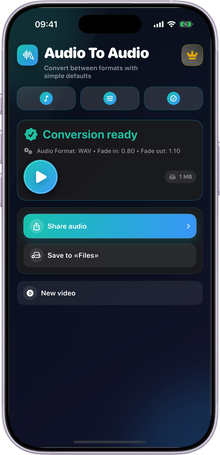
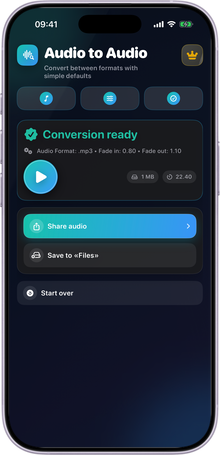
Fix done screen duration and refresh done showcase shots

diff --git a/AudioToAudio/App/AudioToAudioViewModel.swift b/AudioToAudio/App/AudioToAudioViewModel.swift
@@ -96,6 +96,7 @@ final class AudioToAudioViewModel: ObservableObject {
     @Published private(set) var suggestedBoundaries: SmartTrimSuggestion?
     @Published private(set) var trimmedAudioURL: URL?
     @Published private(set) var trimmedFileSizeBytes: Int64?
+    @Published private(set) var trimmedDurationSeconds: Double?
 
     @Published private(set) var statusMessage: String = L10n.tr("status.pick_source")
     @Published private(set) var errorMessage: String?
@@ -174,6 +175,11 @@ final class AudioToAudioViewModel: ObservableObject {
     var outputSizeText: String? {
         guard let trimmedFileSizeBytes else { return nil }
         return humanReadableSize(trimmedFileSizeBytes)
+    }
+
+    var outputDurationText: String? {
+        guard let trimmedDurationSeconds else { return nil }
+        return formatSeconds(trimmedDurationSeconds)
     }
 
     var clipDurationRange: ClosedRange<Double> {
@@ -464,6 +470,7 @@ final class AudioToAudioViewModel: ObservableObject {
         removeManagedFileIfNeeded(trimmedAudioURL)
         trimmedAudioURL = nil
         trimmedFileSizeBytes = nil
+        trimmedDurationSeconds = nil
         errorMessage = nil
         statusMessage = L10n.tr("status.trimming")
 
@@ -485,6 +492,8 @@ final class AudioToAudioViewModel: ObservableObject {
             applyWorkflowState()
             trimmedAudioURL = outputURL
             trimmedFileSizeBytes = size
+            let outputDurationSeconds = (try? await AVURLAsset(url: outputURL).load(.duration).seconds) ?? plan.clipDurationSeconds
+            trimmedDurationSeconds = outputDurationSeconds.isFinite ? max(0, outputDurationSeconds) : max(0, plan.clipDurationSeconds)
 
             if !hasPremiumAccess {
                 quotaStore.recordFreeConversionToday()
@@ -561,6 +570,7 @@ final class AudioToAudioViewModel: ObservableObject {
         suggestedBoundaries = nil
         trimmedAudioURL = nil
         trimmedFileSizeBytes = nil
+        trimmedDurationSeconds = nil
         errorMessage = nil
         validationMessage = nil
         isTrimming = false
@@ -611,6 +621,7 @@ final class AudioToAudioViewModel: ObservableObject {
         suggestedBoundaries = nil
         trimmedAudioURL = nil
         trimmedFileSizeBytes = nil
+        trimmedDurationSeconds = nil
         errorMessage = nil
 
         resetTrimRangeToFullDuration(metadata.durationSeconds)
@@ -894,11 +905,13 @@ final class AudioToAudioViewModel: ObservableObject {
             workflowStep = .result
             trimmedAudioURL = demoURL
             trimmedFileSizeBytes = 1_024_000
+            trimmedDurationSeconds = max(0, clipEndSeconds - clipStartSeconds)
             statusMessage = L10n.tr("status.trim_finished")
         } else if showcaseStep == "paywall" {
             workflowStep = .source
             trimmedAudioURL = nil
             trimmedFileSizeBytes = nil
+            trimmedDurationSeconds = nil
             purchaseOptions = [
                 PurchasePlanOption(
                     id: PurchaseManager.weeklyProductID,
@@ -925,6 +938,9 @@ final class AudioToAudioViewModel: ObservableObject {
             isPaywallPresented = true
         } else {
             workflowStep = .trim
+            trimmedAudioURL = nil
+            trimmedFileSizeBytes = nil
+            trimmedDurationSeconds = nil
         }
     }
 

diff --git a/AudioToAudio/App/ContentView.swift b/AudioToAudio/App/ContentView.swift
@@ -102,13 +102,11 @@ struct ContentView: View {
         ) {
             paywallSheet
         }
-        .alert(L10n.tr("Start with a new video?"), isPresented: $isRestartConfirmationPresented) {
+        .alert(L10n.tr("action.new_trim"), isPresented: $isRestartConfirmationPresented) {
             Button(L10n.tr("Cancel"), role: .cancel) {}
             Button(L10n.tr("Reset"), role: .destructive) {
                 viewModel.restart()
             }
-        } message: {
-            Text(L10n.tr("This will clear the selected source video and current conversion results."))
         }
 #if DEBUG
         .background(
@@ -702,6 +700,9 @@ struct ContentView: View {
                             if let size = viewModel.outputSizeText {
                                 statPill(icon: "internaldrive", text: size)
                             }
+                            if let duration = viewModel.outputDurationText {
+                                statPill(icon: "timer", text: duration)
+                            }
                         }
                     }
                 }
@@ -727,7 +728,7 @@ struct ContentView: View {
                 Button {
                     isRestartConfirmationPresented = true
                 } label: {
-                    actionButton(title: L10n.tr("New video"), icon: "arrow.counterclockwise.circle.fill", primary: false)
+                    actionButton(title: L10n.tr("action.new_trim"), icon: "arrow.counterclockwise.circle.fill", primary: false)
                 }
                 .buttonStyle(.plain)
             }

diff --git a/AudioToAudio/App/L10n.swift b/AudioToAudio/App/L10n.swift
@@ -25,6 +25,18 @@ enum L10n {
     private static let localizedCacheLock = NSLock()
 
     private static func manualOverride(for key: String) -> String? {
+        if key == "action.new_trim" {
+            for locale in preferredLocalizationKeys() {
+                if let value = localizedValue(for: "Start over", locale: locale) {
+                    return value
+                }
+                if let value = localizedValue(for: "Reset", locale: locale) {
+                    return value
+                }
+            }
+            return NSLocalizedString("Start over", comment: "")
+        }
+
         guard let languageKey = resolvedLanguageKey() else {
             return nil
         }
@@ -57,9 +69,6 @@ enum L10n {
             return localizedValue(for: "Go back", locale: languageKey)
         case "action.reset":
             return localizedValue(for: "Reset", locale: languageKey)
-        case "action.new_trim":
-            return localizedValue(for: "Start over", locale: languageKey)
-                ?? localizedValue(for: "New video", locale: languageKey)
         case "action.suggest_boundaries":
             return suggestBoundariesOverrides[languageKey]
         case "action.cancel_trim":
@@ -288,7 +297,7 @@ enum L10n {
         "da": "Lyd til Lyd",
         "de": "Audio zu Audio",
         "el": "Ήχος σε Ήχο",
-        "en": "Audio To Audio",
+        "en": "Audio to Audio",
         "es": "Audio a Audio",
         "fi": "Ääni Ääneksi",
         "fr": "Audio vers Audio",
